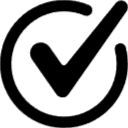
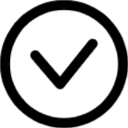
Terminada la app para lista de tareas

diff --git a/main.js b/main.js
@@ -48,14 +48,15 @@ function agregarTarea(tarea, id, realizado, eliminado){
   const REALIZADO = realizado ? check : uncheck;
   const LINE = realizado ? lineThrough : " ";
   const elemento = `<li id="elemento">
-  <input class="${REALIZADO}" type="checkbox" data="realizado" id="${id}">
+  <img src="Imagen/checkIcon.png" class="checkIcon ${REALIZADO}" type="checkbox" data="realizado" id="${id}"/>
   <p class="text ${LINE}">${tarea}</p>
-  <button data="eliminado" id="${id}">x</button>
+  <img class="trashIcon" src="Imagen/trashIcon.png" data="eliminado" id="${id}"/>
   </li>`;
   lista.insertAdjacentHTML("beforeend", elemento); //insertará el contenido HTML (elemento) al final de la lista (lista) utilizando el método insertAdjacentHTML() con la posición "beforeend"
 }
 
-
+// <button data="eliminado" id="${id}">x</button>
+// <input class="${REALIZADO}" type="checkbox" data="realizado" id="${id}">
 
 function tareaRealizada(element){
   element.classList.toggle(check);

diff --git a/style.css b/style.css
@@ -84,37 +84,31 @@ h3 {
   align-items: center;
 }
 
-#elemento > input {
-  appearance: none;
-  width: 15px;
-  height: 15px;
+#elemento > .checkIcon {
+  width: 25px;
   margin-left: 10px;
   cursor: pointer;
-  background-color: white;
 }
 
-#elemento > input:hover {
+#elemento > .checkIcon:hover{
   background-color: rgb(0, 255, 0);
+  border-radius: 50%;
 }
 
-#elemento > input:checked {
+#elemento > .check{
   background-color: rgb(0, 255, 0);
+  border-radius: 50%
 }
 
-#elemento > button {
-  width: 20px;
-  height: 15px;
+#elemento > .trashIcon {
+  width: 25px;
   margin-right: 10px;
-  font-size: 15px;
   cursor: pointer;
-  border: none;
-  display: flex;
-  justify-content: center;
-  align-items: center;
 }
 
-#elemento > button:hover {
+#elemento > .trashIcon:hover{
   background-color: red;
+  border-radius: 25%;
 }
 
 .lineThrough {
